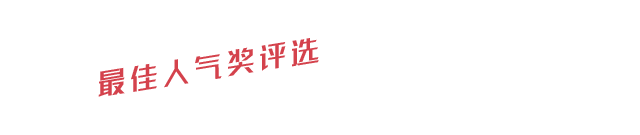
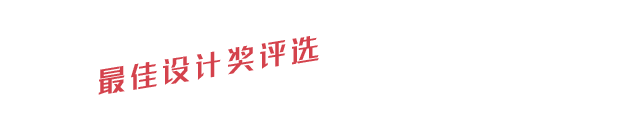
fix

Changed region(s): [[0.1562, 0.2667, 0.5, 0.7111]]

diff --git a/index.html b/index.html
@@ -19,15 +19,22 @@
 			<div class="rule-content">
 				<h2><img src="images/rules_tit.png" /></h2>
 				<div class="text">
-					<p>1. 首先点击选择您支持的组别，企业组或学生组；</p>
-					<p>2. 进入后，通过“上下滑动”的方式浏览左右两排车队，点击您所支持的车队海报，进入投票界面；</p>
-					<p>3. 投票方式以手机【摇一摇】功能实现，即在规定的10秒钟内，您摇动手机频率越快，为所支持的车队投票越多；</p>
-					<p>4. 为保证活动公平，每位用户每天仅有1次投票机会；</p>
-					<p>5. 游戏结束后，将您所参与的游戏页面分享至您的朋友圈，可邀请您的朋友一同参与活动为您支持的车队投票。</p>
-					<p>6. 最终根据累计积分排名，选出每个组别人气最高的车队海报；</p>
-					<p>7. 参与过程中请务必注意安全，我司不对因参与游戏而导致的任何意外事件负责；</p>
-					<p>8. 本次活动最终解释权归Honda中国节能竞技大赛组委会“最佳人气奖”</p>
-					<p><br />活动日期: 2016年10月29日9:00至10月30日16:00截止</p>
+					<p>1. 本次投票活动共有150件作品参赛，不分组别，每辆参赛车均有唯一编号（编号为电脑随机生成）；</p>
+					<p>2. 投票活动持续三天，前后分两轮，分别为150进10以及10进1；</p>
+					<p>3. 第一轮 150进10<br />
+					● 投票时间：2015年10月23日9:00至10月24日16:00<br />
+					● 每位用户每天限1次投票机会，每次必须选投3件作品<br />
+					● 根据投票数先后，从150辆车中竞选出前10名<br />
+					（投票页面附有排行榜按钮点击可查看前10名作品）</p>
+					<p>4. 第二轮 10进1<br />
+					● 投票时间：2015年10月25日9:00至16:00<br />
+					● 每位用户当天限1次投票机会，进入第二轮投票限选<br />
+					前10强中的任意3件作品<br />
+					● 根据投票数高低，最终从10件作品中竞选出冠军<br />
+					● 用户在投票成功后，系统将自动发送兑奖码至用户<br />
+					手机，活动最后，大赛将随机抽选并公布6名幸运者，<br />
+					兑奖码为用户唯一凭证。</p>
+					<p>5. 本次活动最终解释权归Honda中国节能竞技大赛组委会所有</p>
 				</div>
 				<div class="btn-close"><img src="images/btn_back.png" /></div>
 			</div>
@@ -88,14 +95,13 @@
 							<div class="rule-content">
 								<h2><img src="images/rules2_tit.png" /></h2>
 								<div class="text">
-									<p>1. 选择【企业组】或【学生组】</p>
-									<p>2. 选择你所支持的车队海报</p>
-									<p>3. 在10秒内快速度摇动手机，频率越快分数越高</p>
-									<p>4. 通过投票数累积，最终得票最高的车队获得 <br />“最佳人气奖”</p>
-									<p>5. 每人每天限玩一次</p>
-									<p>6. 分享到朋友圈可以让更多小伙伴为车队加油哟<br /><br /><br /><br /></p>
-									<p>欢迎参加本届大赛“最青春车队海报“评选活动</p>
-									<p>活动日期:2016年10月22日9:00至10月29日18:00截止</p>
+									<p>对150辆参赛作品进行网络投票，投票分两轮：</p>
+									<p>● 第一轮 153进10</p>
+									<p>（ 时间：2016年10月29日9:00至10月30日16:00 ）</p>
+									<p>每人每天限投1次，每次必须在150件作品中选投3件</p>
+									<p>● 本次活动最终解释权归Honda中国节能竞技大赛<br />组委会所有</p>
+									<p>欢迎参加本届大赛“最佳设计奖“投票评选活动</p>
+									<p>活动日期:2016年10月29日9:00至10月30日14:00截止；</p>
 								</div>
 								<div class="btn-confirm"><img src="images/btn_confirm.png" /></div>
 								<div class="btn-back"><img src="images/btn_back.png" /></div>
